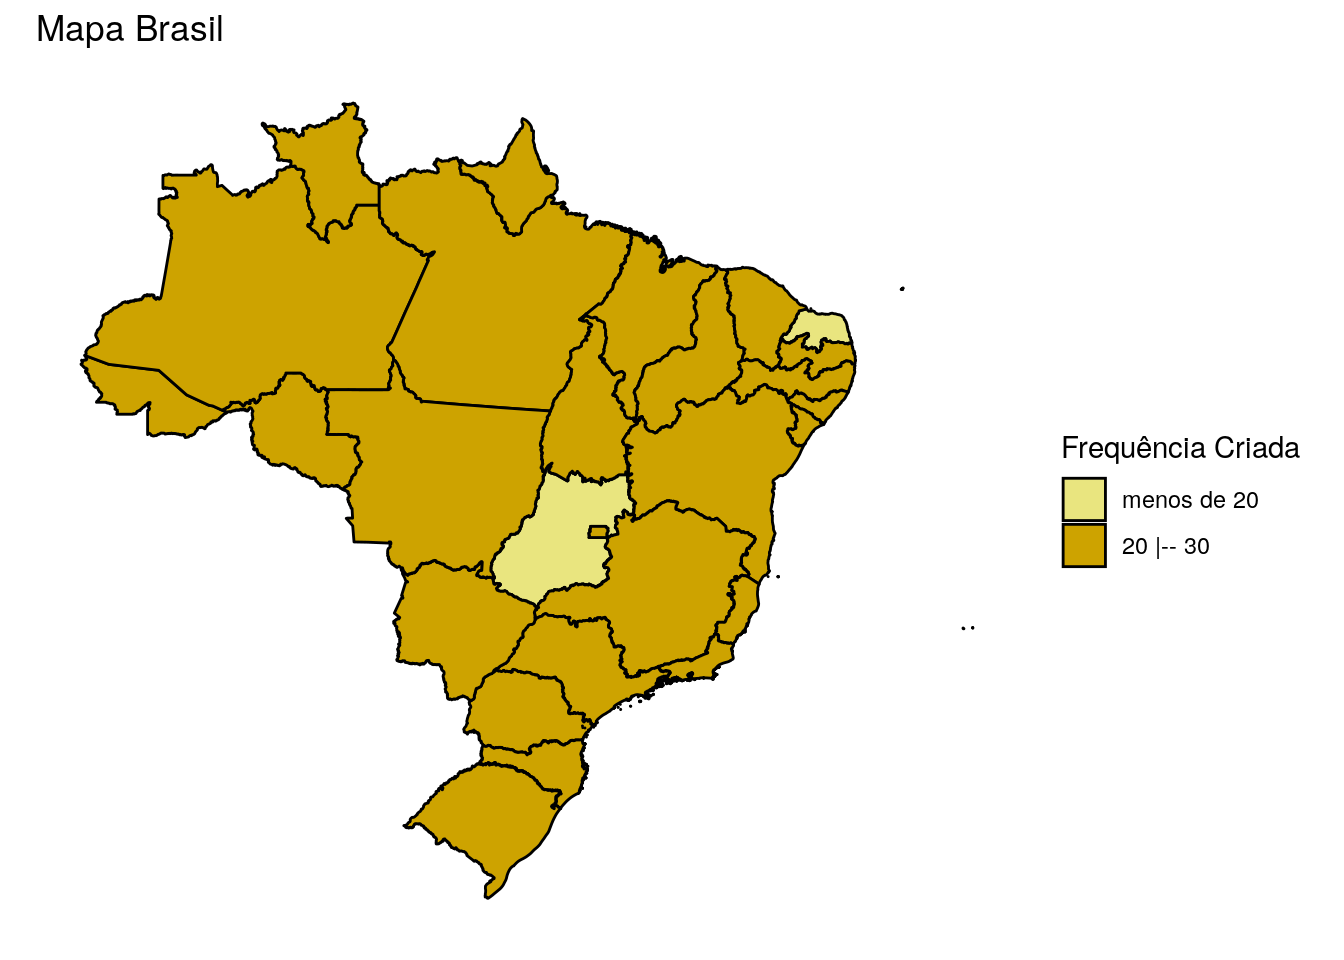
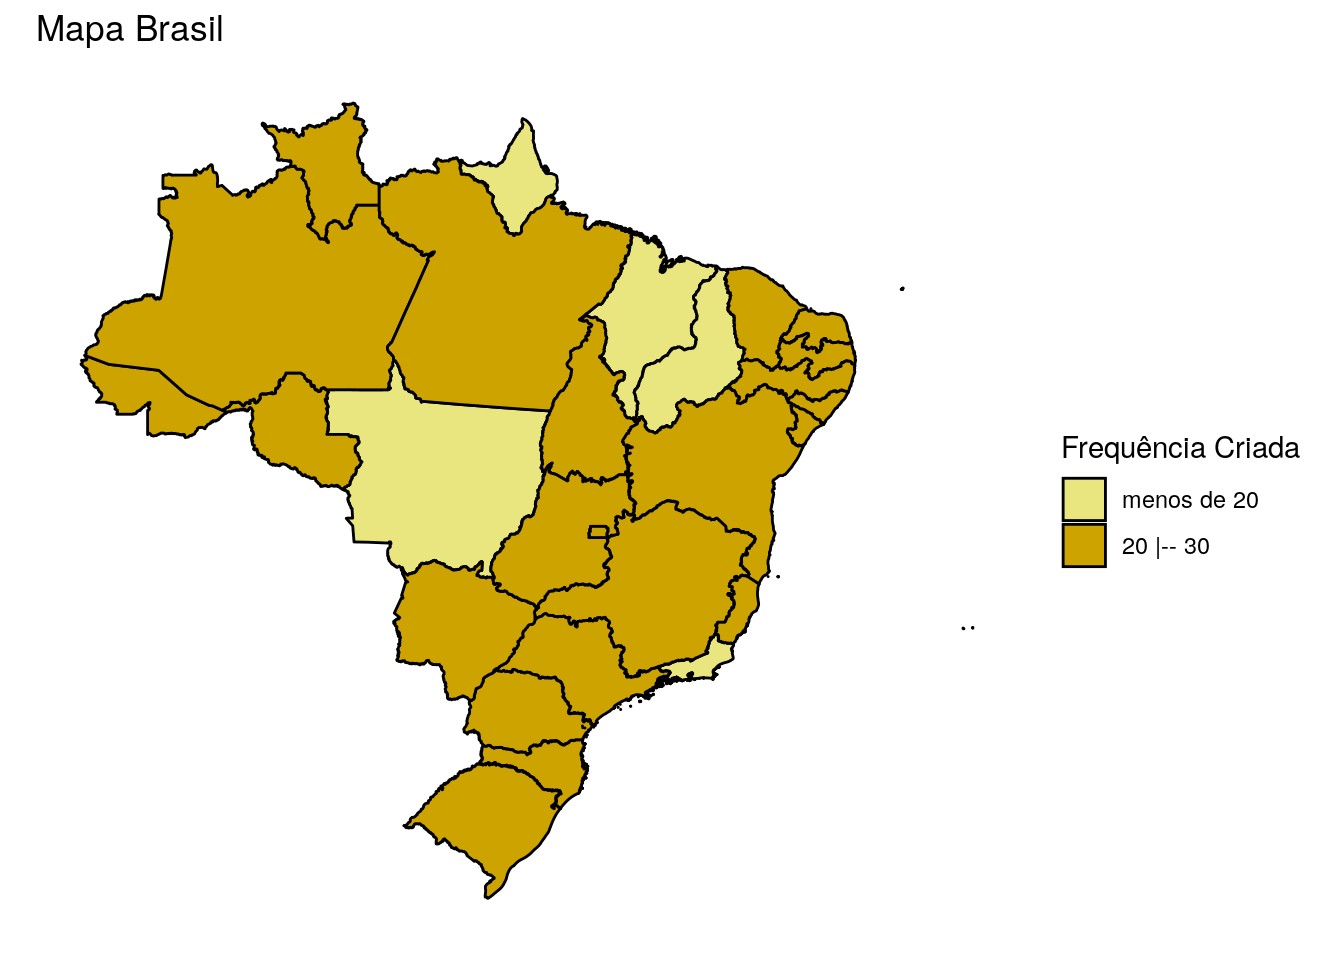
mapa-com-geobr

diff --git a/post/gerando-um-mapa-com-geobr-no-r/index.html b/post/gerando-um-mapa-com-geobr-no-r/index.html
@@ -13,7 +13,7 @@
 <base href="https://jodavid.github.io">
 
 <title>
-  Jodavid Ferreira - Gerando um Mapa com `geobr` no R 
+  Jodavid Ferreira - Gerando um Mapa com &#39;geobr&#39; no R 
 </title>
 
 <meta name="generator" content="Hugo 0.54.0" />
@@ -50,7 +50,7 @@ src="//cdn.bootcss.com/mathjax/2.7.1/MathJax.js?config=TeX-MML-AM_CHTML">
 
 
 <header class="row text-left title">
-  <h1 class="title">Gerando um Mapa com `geobr` no R</h1>
+  <h1 class="title">Gerando um Mapa com &#39;geobr&#39; no R</h1>
 </header>
 <section id="category-pane" class="row meta">
   
@@ -79,7 +79,7 @@ src="//cdn.bootcss.com/mathjax/2.7.1/MathJax.js?config=TeX-MML-AM_CHTML">
     
     
     
-<script src="Gerando um Mapa com geobr no R_files/header-attrs/header-attrs.js"></script>
+<script src="Gerando um Mapa com 'geobr' no R_files/header-attrs/header-attrs.js"></script>
 
 
 <p>Neste Post vamos gerar dois mapas com pacote <code>geobr</code>, com intiuto de mostrar
@@ -137,9 +137,9 @@ amostra &lt;- sample(x = estados, size = 1000, replace = TRUE)
 table(amostra)</code></pre>
 <pre><code>## amostra
 ## AC AL AM AP BA CE DF ES GO MA MG MS MT PA PB PE PI PR RJ RN RO RR RS SC SE SP 
-## 49 46 34 35 39 35 33 45 25 49 33 45 32 38 31 38 35 35 47 29 40 38 35 34 33 31 
+## 38 41 33 35 36 32 39 30 35 31 39 42 42 38 36 32 37 34 49 49 32 30 31 49 37 31 
 ## TO 
-## 36</code></pre>
+## 42</code></pre>
 <p>Em geral ficou uma amostra uniforme, em torno da frequẽncia 35. Vamos agora chamar a biblioteca e gerar o mapa usando o <code>geobr</code>.</p>
 <pre class="r"><code># Instalando o &#39;geobr&#39;
 remotes::install_github(&quot;ipeaGIT/geobr&quot;, subdir = &quot;r-package&quot;)</code></pre>
@@ -180,15 +180,15 @@ dados_mapa %&gt;%
         axis.text = element_blank(),
         axis.ticks = element_blank(),
         panel.grid = element_blank())</code></pre>
-<p><img src="https://jodavid.github.io/post/Gerando%20um%20Mapa%20com%20geobr%20no%20R_files/figure-html/unnamed-chunk-5-1.png" width="672" /></p>
+<p><img src="Gerando um Mapa com 'geobr' no R_files/figure-html/unnamed-chunk-5-1.png" width="672" /></p>
 <p>Criando um intervalo e fazendo o gráfico de acordo com a legenda criada:</p>
 <pre class="r"><code># Descobrindo o maximo e minimo para definir a quantidade de intervalos
 max(dados_mapa$n) # Calculando o máximo</code></pre>
 <pre><code>## [1] 49</code></pre>
 <pre class="r"><code>min(dados_mapa$n) # Calculando o mínimo</code></pre>
-<pre><code>## [1] 25</code></pre>
+<pre><code>## [1] 30</code></pre>
 <pre class="r"><code>max(dados_mapa$n) - min(dados_mapa$n) # Diferença</code></pre>
-<pre><code>## [1] 24</code></pre>
+<pre><code>## [1] 19</code></pre>
 <pre class="r"><code># Por questão de facilidade vamos dividir em 3 categorias:
 # 1 - Frequência de menos de 20;
 # 2 - Frequência de 20 a 30;
@@ -225,7 +225,7 @@ dados_mapa %&gt;%
         axis.text = element_blank(),
         axis.ticks = element_blank(),
         panel.grid = element_blank())</code></pre>
-<p><img src="https://jodavid.github.io/post/Gerando%20um%20Mapa%20com%20geobr%20no%20R_files/figure-html/unnamed-chunk-6-1.png" width="672" /></p>
+<p><img src="Gerando um Mapa com 'geobr' no R_files/figure-html/unnamed-chunk-6-1.png" width="672" /></p>
 <p>Com esses códigos são possíveis a criação de mapas utilizando frequências usando o pacote <code>geobr</code>.</p>
 <p>Fontes:</p>
 <p><a href="https://www.instagram.com/p/CMDauKFgsJo/?utm_source=ig_web_copy_link">Instagram: programando_em_r</a></p>
@@ -269,13 +269,11 @@ dados_mapa %&gt;%
 <section id="menu-pane" class="row menu text-center">
   
   
-  <span><a class="menu-item" href="https://jodavid.github.io/post/refresh-de-um-script-r-com-crontab/">&lt; prev | </a></span>
+  <span><a class="menu-item" href="https://jodavid.github.io/post/gerando-um-mapa-com-geobr-no-r/">&lt; prev | </a></span>
   
   
   <span><a class="menu-item" href="https://jodavid.github.io/post">post</a></span>
   
-  
-  <span><a class="menu-item" href="https://jodavid.github.io/post/gerando-um-mapa-com-geobr-no-r/"> | next &gt;</a></span>
   
   
   <h4 class="text-center"><a class="menu-item" href="https://jodavid.github.io">home</a></h4>

diff --git a/categories/geobr/index.html b/categories/geobr/index.html
@@ -54,7 +54,7 @@ src="//cdn.bootcss.com/mathjax/2.7.1/MathJax.js?config=TeX-MML-AM_CHTML">
   <ul >
     
     <li class="list-entry">
-      <a class="list-entry-link" href="https://jodavid.github.io/post/gerando-um-mapa-com-geobr-no-r/">Gerando um Mapa com `geobr` no R</a>
+      <a class="list-entry-link" href="https://jodavid.github.io/post/gerando-um-mapa-com-geobr-no-r/">Gerando um Mapa com geobr no R</a>
       <p class="meta">
          7 DE MAR DE 2021 
         <span class="category">

diff --git a/categories/r/index.html b/categories/r/index.html
@@ -54,7 +54,7 @@ src="//cdn.bootcss.com/mathjax/2.7.1/MathJax.js?config=TeX-MML-AM_CHTML">
   <ul >
     
     <li class="list-entry">
-      <a class="list-entry-link" href="https://jodavid.github.io/post/gerando-um-mapa-com-geobr-no-r/">Gerando um Mapa com `geobr` no R</a>
+      <a class="list-entry-link" href="https://jodavid.github.io/post/gerando-um-mapa-com-geobr-no-r/">Gerando um Mapa com geobr no R</a>
       <p class="meta">
          7 DE MAR DE 2021 
         <span class="category">

diff --git a/post/index.html b/post/index.html
@@ -54,7 +54,7 @@ src="//cdn.bootcss.com/mathjax/2.7.1/MathJax.js?config=TeX-MML-AM_CHTML">
   <ul >
     
     <li class="list-entry">
-      <a class="list-entry-link" href="https://jodavid.github.io/post/gerando-um-mapa-com-geobr-no-r/">Gerando um Mapa com `geobr` no R</a>
+      <a class="list-entry-link" href="https://jodavid.github.io/post/gerando-um-mapa-com-geobr-no-r/">Gerando um Mapa com geobr no R</a>
       <p class="meta">
          7 DE MAR DE 2021 
         <span class="category">

diff --git a/tags/geobr/index.html b/tags/geobr/index.html
@@ -54,7 +54,7 @@ src="//cdn.bootcss.com/mathjax/2.7.1/MathJax.js?config=TeX-MML-AM_CHTML">
   <ul >
     
     <li class="list-entry">
-      <a class="list-entry-link" href="https://jodavid.github.io/post/gerando-um-mapa-com-geobr-no-r/">Gerando um Mapa com `geobr` no R</a>
+      <a class="list-entry-link" href="https://jodavid.github.io/post/gerando-um-mapa-com-geobr-no-r/">Gerando um Mapa com geobr no R</a>
       <p class="meta">
          7 DE MAR DE 2021 
         <span class="category">

diff --git a/tags/r/index.html b/tags/r/index.html
@@ -54,7 +54,7 @@ src="//cdn.bootcss.com/mathjax/2.7.1/MathJax.js?config=TeX-MML-AM_CHTML">
   <ul >
     
     <li class="list-entry">
-      <a class="list-entry-link" href="https://jodavid.github.io/post/gerando-um-mapa-com-geobr-no-r/">Gerando um Mapa com `geobr` no R</a>
+      <a class="list-entry-link" href="https://jodavid.github.io/post/gerando-um-mapa-com-geobr-no-r/">Gerando um Mapa com geobr no R</a>
       <p class="meta">
          7 DE MAR DE 2021 
         <span class="category">
